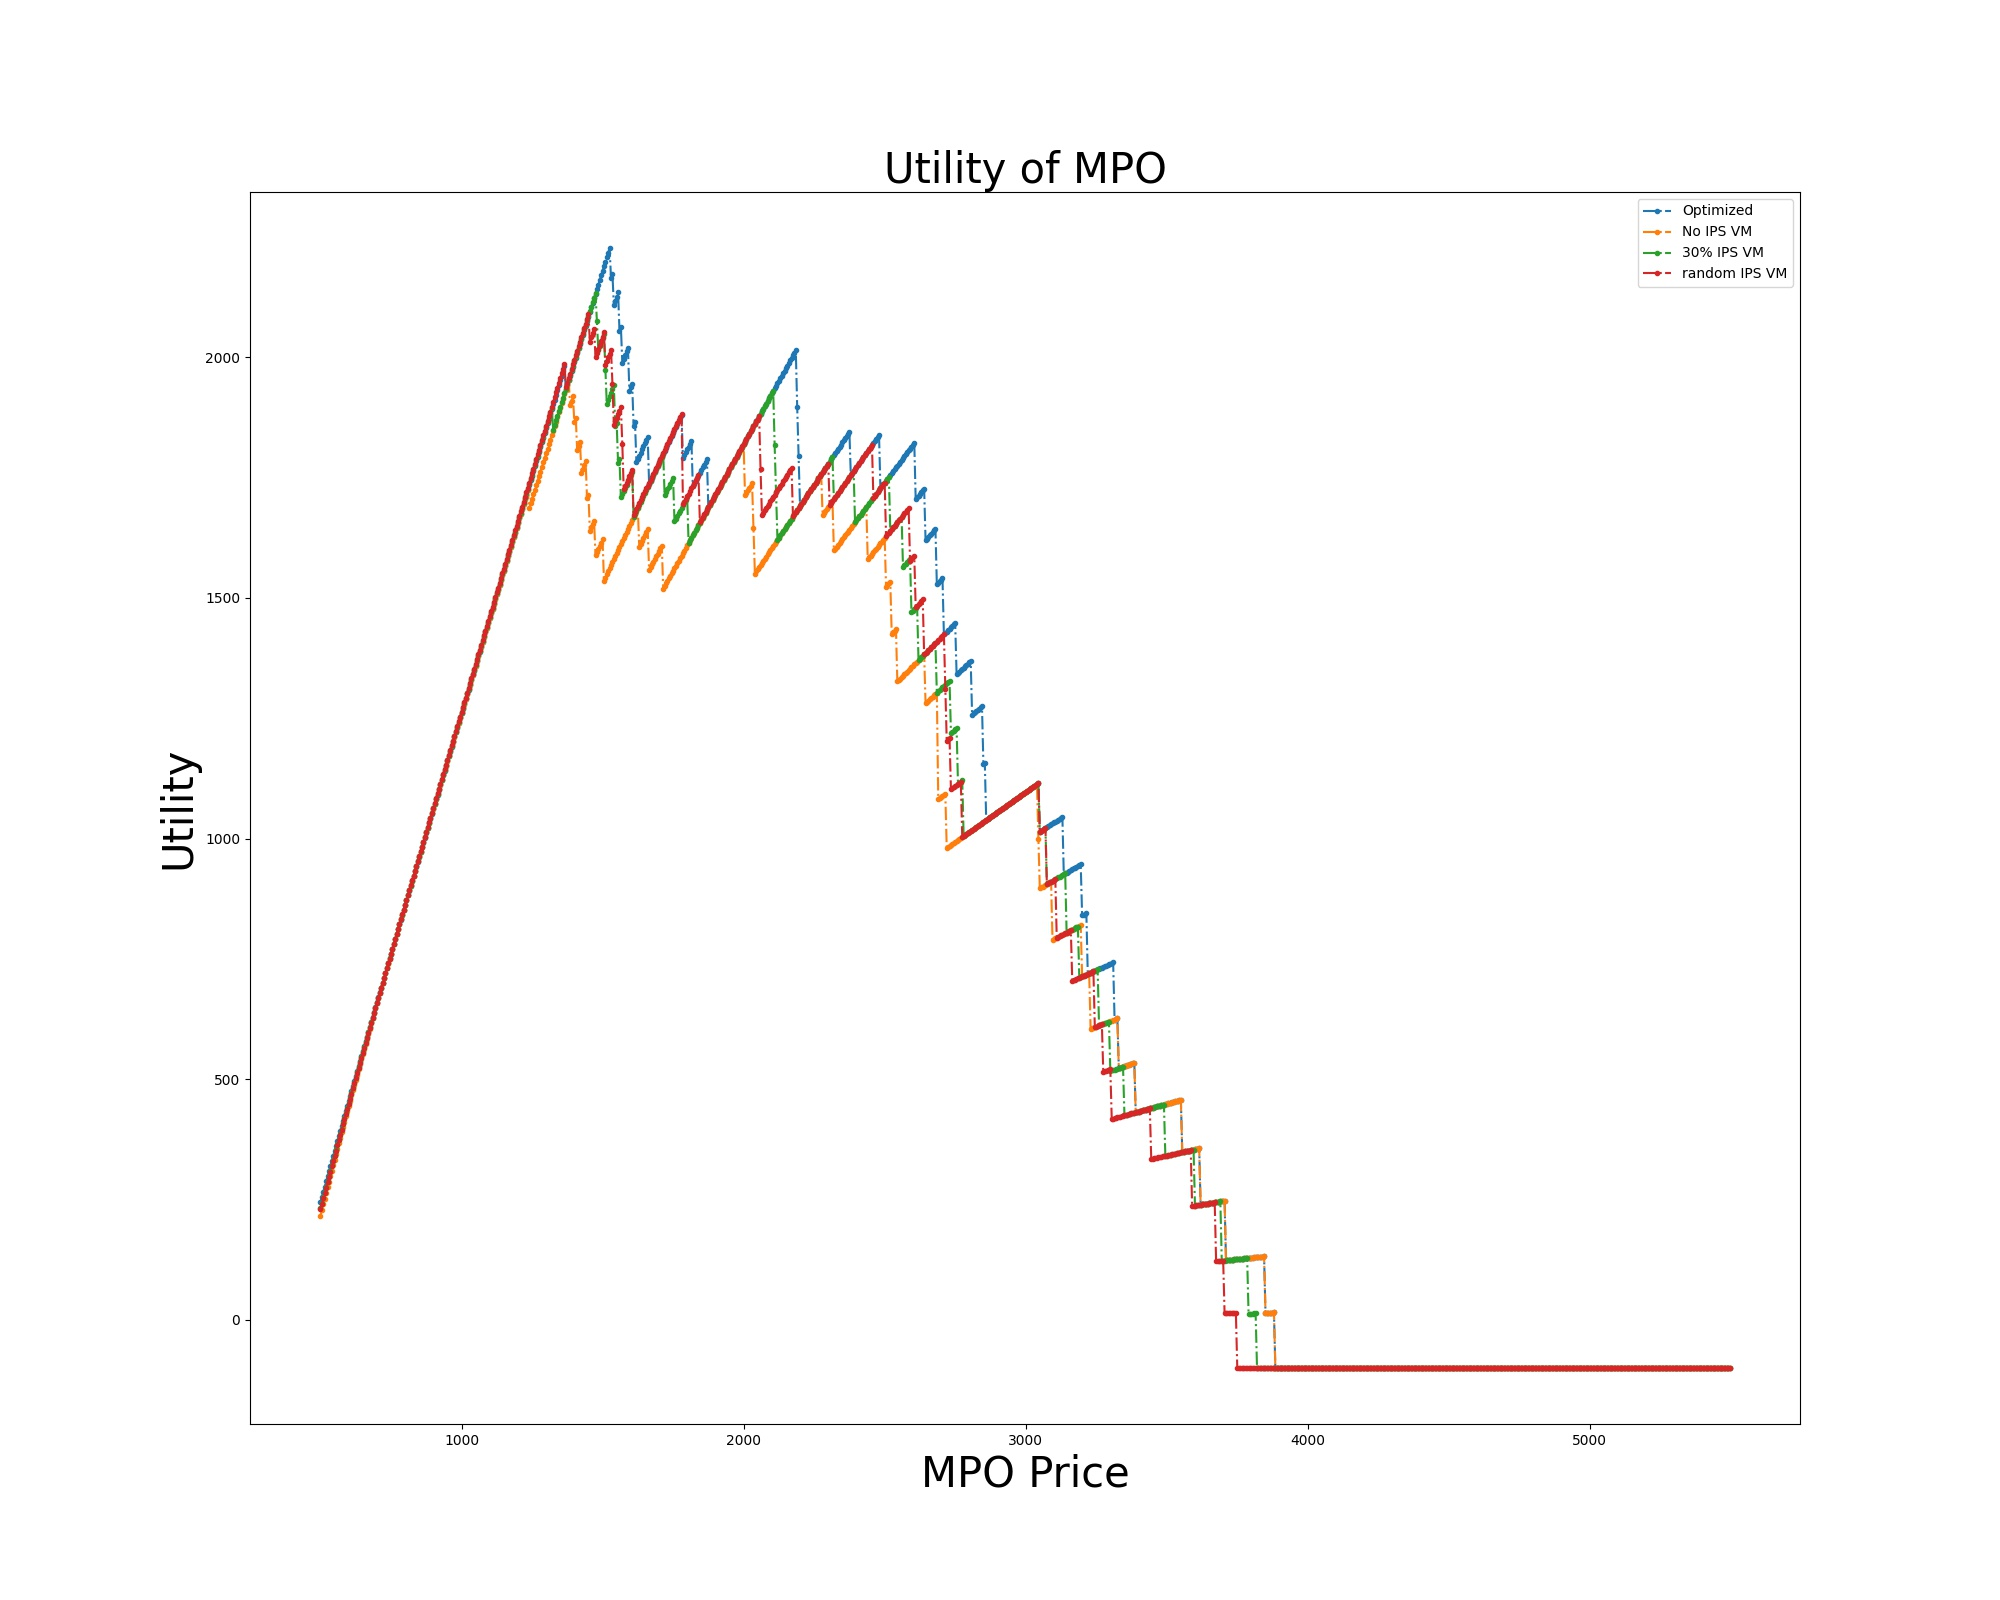
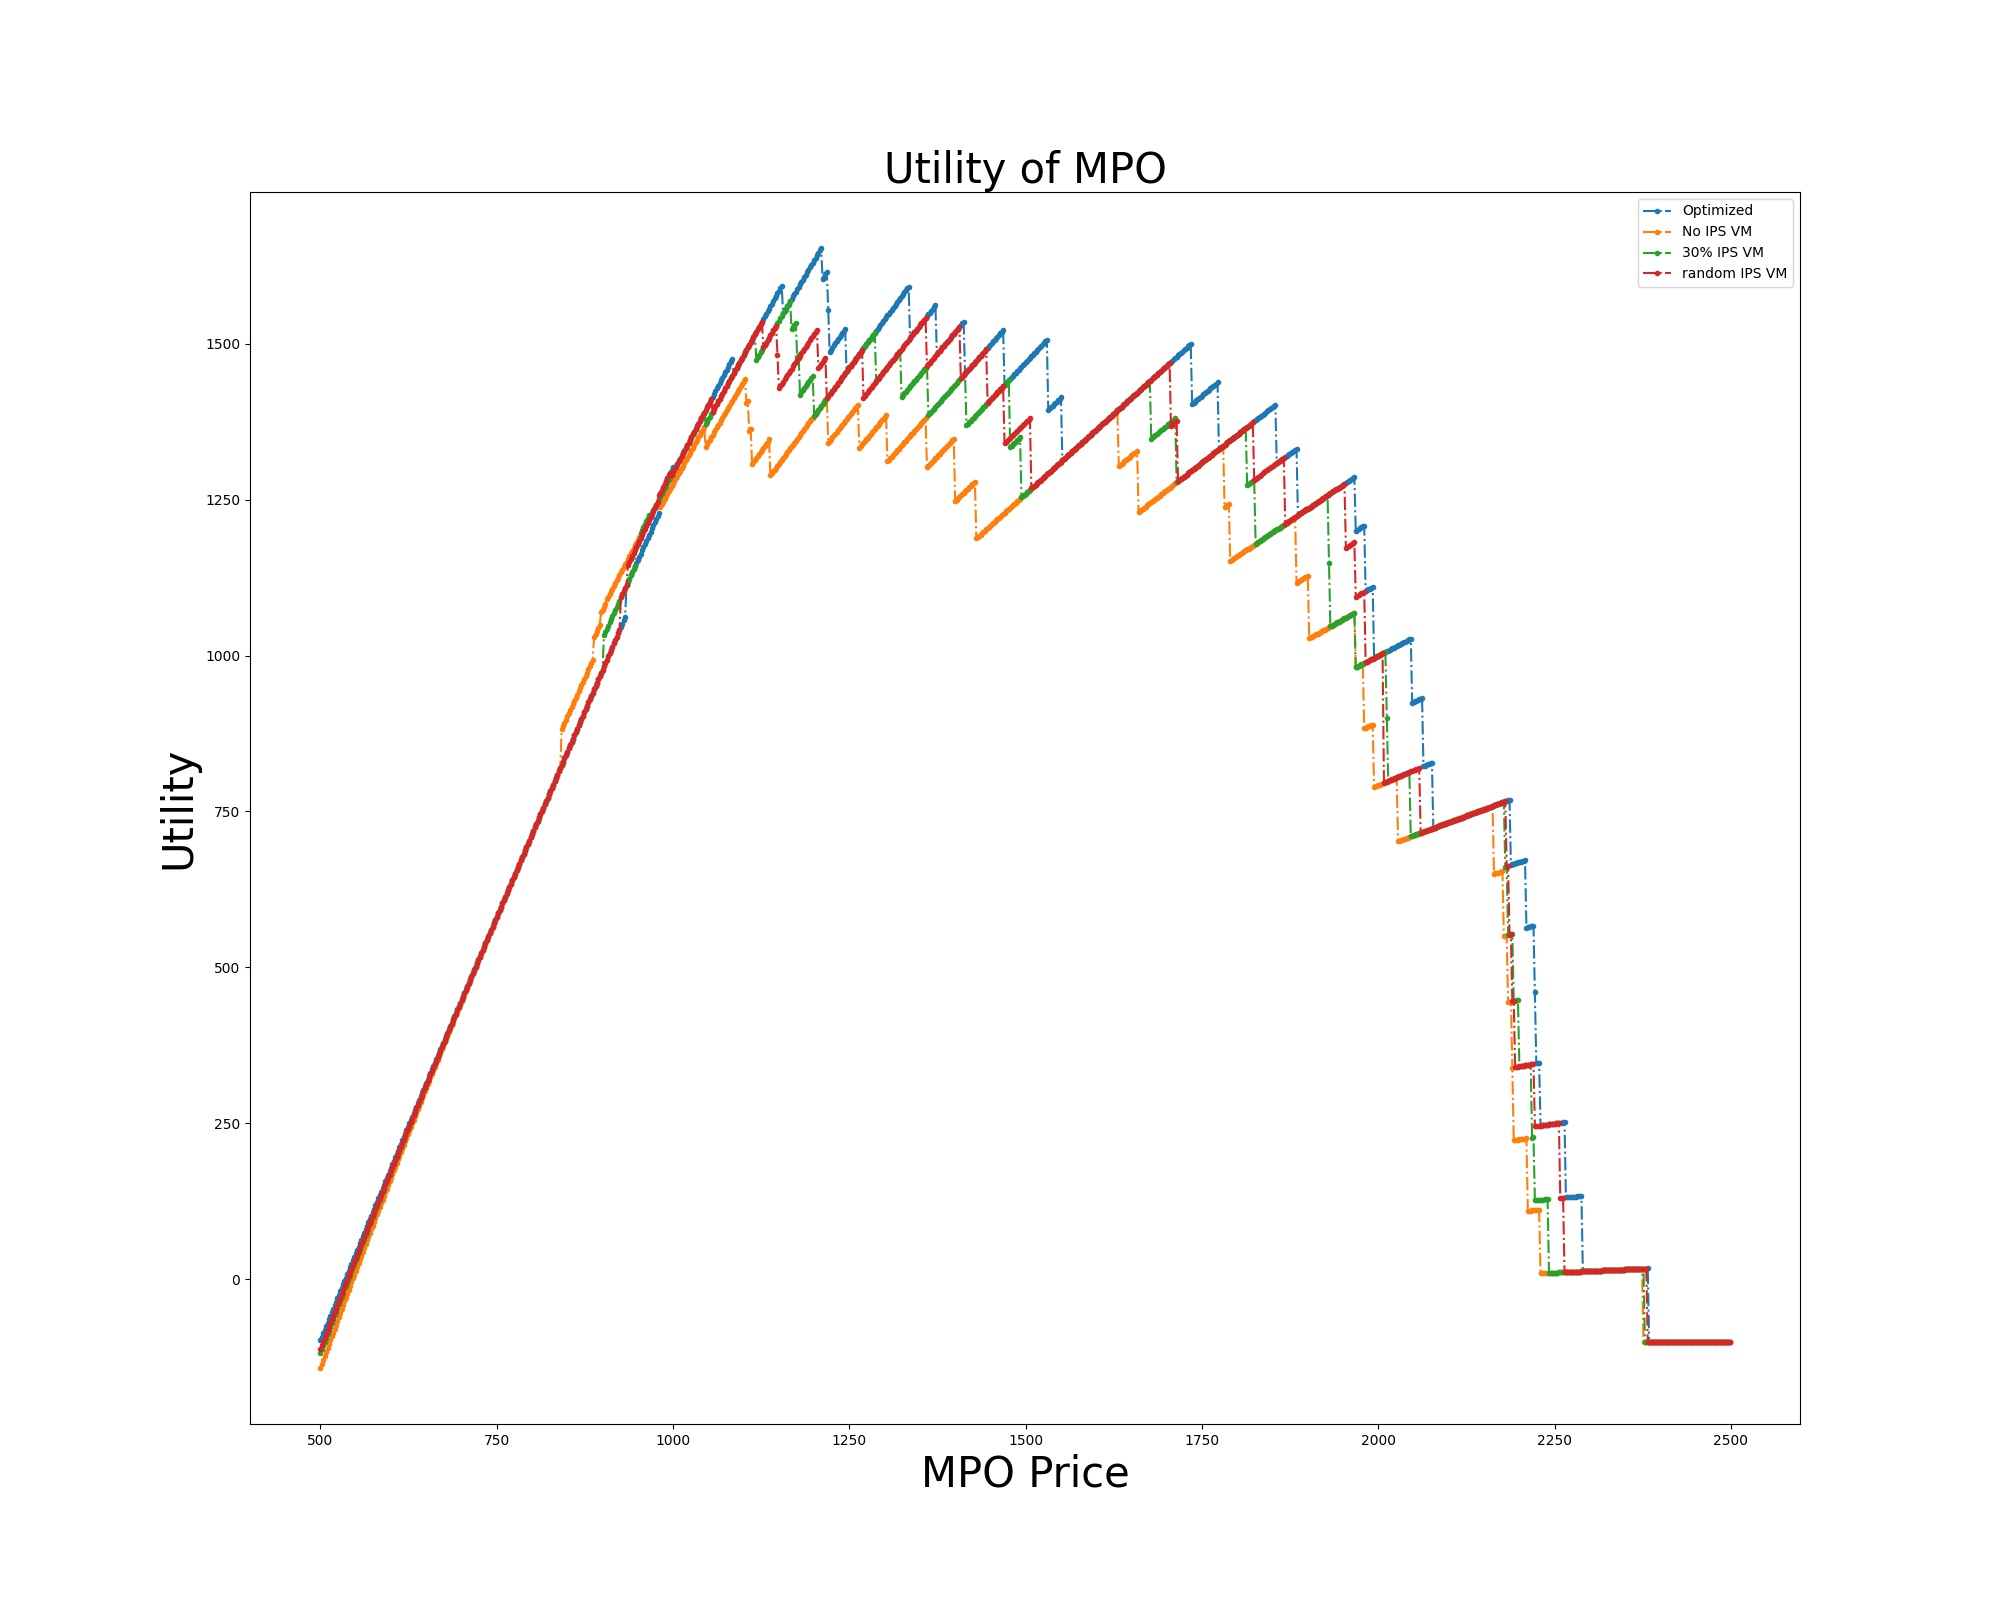
fix graph

diff --git a/simulation_code/mpo.py b/simulation_code/mpo.py
@@ -71,7 +71,7 @@ class MPO():
     def plot_phi(self):
         self.find_optimize_phi()
         phi = 500
-        step = 5
+        step = 2
         pr = []
         pr_zh1 = []
         pr_zh2 = []
@@ -120,7 +120,7 @@ class MPO():
 
         vm_prior = float('inf')
         phi = 500
-        ratio = np.random.rand(self.num_of_asp)
+        ratio = np.random.rand(self.num_of_asp) * 0.9
         for _ in range(1000):
             self.set_and_check_required_vm_with_chi_random(phi, ratio)
             vm_after = self.total_vm()
@@ -136,7 +136,7 @@ class MPO():
         plt.title('Utility of MPO', fontsize=30)
         plt.xlabel('MPO Price', fontsize=30)
         plt.ylabel('Utility', fontsize=30)
-        plt.vlines(self.bd, ymin=0, ymax=max(ut), linestyle='-', color='red', label='Boundary')
+        plt.vlines(self.bd, ymin=min(ut), ymax=max(ut), linestyle='-', color='red', label='Boundary')
         plt.vlines(self.constraint_phi, ymin=0, ymax=max(ut), linestyle='-', color='darkorange', label='Price Constraint')
         plt.legend(loc="best")
         plt.savefig('./utility.jpg')
@@ -154,9 +154,9 @@ class MPO():
         plt.close()
         plt.figure(figsize=(20, 16), dpi=100)
         plt.plot(pr, num, marker='.', linestyle='-.')
-        plt.vlines(self.bd, ymin=0, ymax=max(num), linestyle='-', color='red', label='Boundary')
+        plt.vlines(self.bd, ymin=min(num), ymax=max(num), linestyle='-', color='red', label='Boundary')
         plt.hlines(self.num_of_vm, xmin=min(700, self.constraint_phi), xmax=500 + 1000 * step, linestyle='-', color='black', label='VM Constraint')
-        plt.vlines(self.constraint_phi, ymin=0, ymax=max(num), linestyle='-', color='darkorange', label='Price Constraint')
+        plt.vlines(self.constraint_phi, ymin=min(num), ymax=max(num), linestyle='-', color='darkorange', label='Price Constraint')
         plt.title('Total Purchased VM', fontsize=30)
         plt.legend(loc="best")
         plt.xlabel('MPO Price', fontsize=30)

diff --git a/simulation_code/asp.py b/simulation_code/asp.py
@@ -38,6 +38,8 @@ class ASP():
         tot_cpu_cycle = 0
         for dev in self.device_list:
             tot_cpu_cycle += dev.required_cpu_cycle
+        for dev in self.mal_device_list:
+            tot_cpu_cycle += dev.required_cpu_cycle
         self.service_rate = self.frequency / (tot_cpu_cycle / (self.num_of_normal_users + self.num_of_malicious_users))
 
     def set_arrival_rate(self):
@@ -134,7 +136,7 @@ class ASP():
                 self.set_process_time()
                 self.set_utility()
                 plt.scatter(self.z_v, self.utility, color=color_dict[mpo_price], marker='^')
-                for i in range(30, 100):
+                for i in range(60, 150):
                     self.z_v = i / 1000
                     self.z_h = self.chi * self.z_v
                     self.set_process_time()
@@ -161,7 +163,7 @@ class ASP():
                 self.set_process_time()
                 self.set_utility()
                 plt.scatter(self.z_v, self.utility, color=color_dict[mpo_price], marker='^')
-                for i in range(30, 100):
+                for i in range(40, 150):
                     self.z_v = i / 1000
                     self.z_h = 0
                     self.set_process_time()

diff --git a/simulation_code/const.py b/simulation_code/const.py
@@ -3,7 +3,7 @@ from math import exp
 # These are the parameters of Global
 # Prefix with GLOBAL_
 ########################################
-GLOBAL_ETA = 7000
+GLOBAL_ETA = 5000
 ########################################
 # These are the parameters of Device
 # Prefix with DEVICE_
